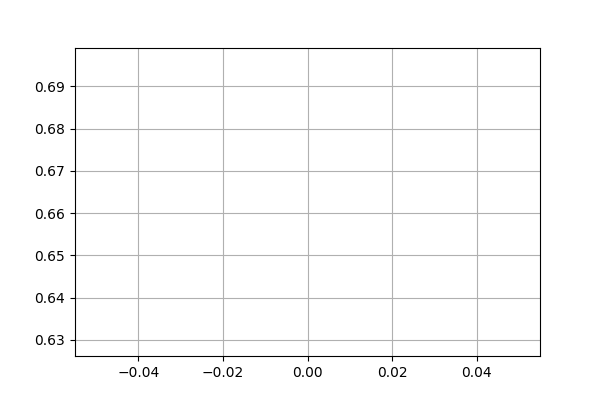
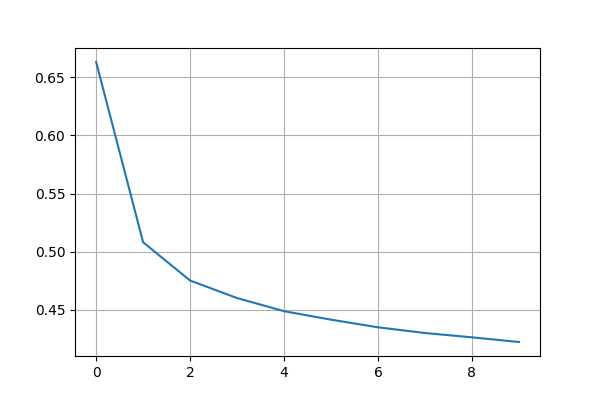
add the concise implementation of softmax.

diff --git a/main.py b/main.py
@@ -136,21 +136,15 @@ def main_manual_linregsm():
     optimizer = SGD([model.w, model.b], lr=args.learning_rate)
     criterion = SetCriterion(args)
     postprocessors = accuracy
-    metrics = defaultdict()
+    metrics = defaultdict(list)
     for epoch in range(args.start_epoch, args.epochs):
         train_stats = train_one_epoch(model, criterion, data_loader_train, optimizer, epoch)
         print(id(data_loader_test))
         test_stats = evaluate(model, criterion, postprocessors, data_loader_test)
         for k, v in train_stats.items():
-            if k in metrics:
-                metrics[k].append(v)
-            else:
-                metrics[k] = [v]
+            metrics[k].append(v)
         for k, v in test_stats.items():
-            if k in metrics:
-                metrics[k].append(v)
-            else:
-                metrics[k] = [v]
+            metrics[k].append(v)
 
     for k, v in metrics.items():
         plot(v)
@@ -166,6 +160,37 @@ def main_manual_linregsm():
     show_images(x[:n].reshape(n, 28, 28), 1, n, titles=titles)
     plt.show()
      
+def main_concise_linregsm():
+    from soft_max.concise_implementation.model import SetCriterion, PostProcess, LinRegSm
+    from soft_max.concise_implementation.engine import train_one_epoch, evaluate
+    
+    args = get_args_parser()
+    dataset_train, dataset_test = get_datasets(args)
+    
+    dataset_loader_train = DataLoader(dataset_train, batch_size=args.batch_size, shuffle=True, num_workers=args.num_workers)
+    dataset_loader_test = DataLoader(dataset_test, batch_size=args.batch_size, shuffle=False, num_workers=args.num_workers)
+    
+    model = LinRegSm(args.num_inputs, args.num_classes)
+    criterion = SetCriterion(args)
+    postprocessor = PostProcess()
+    optimizer = torch.optim.SGD(model.parameters(), lr=args.learning_rate)
+    metrics = defaultdict(list)
+    class_preds = [[0]*args.num_classes]
+    for epoch in range(args.epochs):
+        train_stats = train_one_epoch(model, criterion, dataset_loader_train, optimizer, epoch)
+        test_stats, fashionmnist_evaluator = evaluate(model, criterion, postprocessor, dataset_loader_test, args)
+        for k, v in train_stats.items():
+            metrics[k].append(v)
+        for k, v in test_stats.items():
+            metrics[k].append(v)
+        metrics['classes'].append([x/y for x, y in zip(fashionmnist_evaluator.pred_counts,fashionmnist_evaluator.label_counts)])
+    metrics['classes'] = list(map(list, zip(*metrics['classes'])))
+
+    for k, v in metrics.items():
+        plot(v)
+        save_plot("_".join([model.__class__.__name__, k]))
+        plt.close()
+    
 def get_args_parser():
     parser = argparse.ArgumentParser(
         description='The study of D2L.')
@@ -179,9 +204,9 @@ def get_args_parser():
     parser.add_argument("--learning_rate", default=1e-1, type=float)
     parser.add_argument("--num_workers", default=1, type=int)
     parser.add_argument("--start_epoch", default=0, type=int)
-    parser.add_argument("--epochs", default=1, type=int)
+    parser.add_argument("--epochs", default=10, type=int)
     parser.add_argument("--num_inputs", default=784, type=int)
-    parser.add_argument("--num_outputs", default=10, type=int)
+    parser.add_argument("--num_classes", default=10, type=int)
     args = parser.parse_args()
     return args
 def get_datasets(args):
@@ -194,7 +219,23 @@ def get_datasets(args):
 if __name__ == "__main__":
     # main_manual_linreg()
     # main_concise_linreg()
-    main()
+    # main()
+    main_concise_linregsm()
+    
+    # x = torch.arange(20).reshape(4, 5)
+    # print("x = ", x)
+    # y = torch.arange(1,5).reshape(-1, 1)
+    # print("y = ", y)
+    
+    # print(x, x.shape)
+    # print(y, y.shape)
+    # from soft_max.concise_implementation.model import *
+    # post = PostProcess()
+    # res = post(x,y)
+    # data = FashionMNIST("data", train=False)
+    # print(res)
+    
+    
     
     
     

diff --git a/util/misc.py b/util/misc.py
@@ -115,7 +115,7 @@ class MetricLogger:
     def add_meter(self, name, meter):
         self.meters[name] = meter
         
-    def log_every(self, iterable, print_freq, header=None):
+    def log_every(self, iterable, print_freq, header=None, show_log=True):
         i = 0
         if not header:
             header = ""
@@ -148,23 +148,24 @@ class MetricLogger:
             data_time.update(time.time()-end)
             yield obj
             iter_time.update(time.time()-end)
-            if i % print_freq == 0 or i == len(iterable) - 1:
-                eta_seconds = iter_time.global_avg * (len(iterable) - i)
-                # str(datetime.timedelta(seconds=int(eta_seconds))) is equal to datetime.timedelta(seconds=int(eta_seconds)).__str__()
-                eta_string = str(datetime.timedelta(seconds=int(eta_seconds)))
-                if torch.cuda.is_available():
-                    print(log_msg.format(
-                        i,len(iterable), eta=eta_string,
-                        meters=str(self),
-                        time=str(iter_time),data=str(data_time),
-                        memory=torch.cuda.max_memory_allocated()/MB
-                    ))
-                else:
-                    print(log_msg.format(
-                        i,len(iterable), eta=eta_string,
-                        meters=str(self),
-                        time=str(iter_time),data=str(data_time),
-                    ))
+            if show_log:
+                if i % print_freq == 0 or i == len(iterable) - 1:
+                    eta_seconds = iter_time.global_avg * (len(iterable) - i)
+                    # str(datetime.timedelta(seconds=int(eta_seconds))) is equal to datetime.timedelta(seconds=int(eta_seconds)).__str__()
+                    eta_string = str(datetime.timedelta(seconds=int(eta_seconds)))
+                    if torch.cuda.is_available():
+                        print(log_msg.format(
+                            i,len(iterable), eta=eta_string,
+                            meters=str(self),
+                            time=str(iter_time),data=str(data_time),
+                            memory=torch.cuda.max_memory_allocated()/MB
+                        ))
+                    else:
+                        print(log_msg.format(
+                            i,len(iterable), eta=eta_string,
+                            meters=str(self),
+                            time=str(iter_time),data=str(data_time),
+                        ))
             i += 1
             end = time.time()
         total_time = time.time() - start_time

diff --git a/soft_max/concise_implementation/engine.py b/soft_max/concise_implementation/engine.py
@@ -11,7 +11,7 @@
 import torch
 from util.misc import Accumulator
 import util.misc as util
-from soft_max.manual_implementation.evaluation import accuracy
+from datasets.fashion_mnist_eval import FashionMnistEvaluator
 def train_one_epoch(model:torch.nn.Module, criterion, data_loader, optimizer, epoch):
     if isinstance(model, torch.nn.Module):
         model.train()
@@ -20,35 +20,36 @@ def train_one_epoch(model:torch.nn.Module, criterion, data_loader, optimizer, ep
 
     header = "Epoch: [{}]".format(epoch)
     print_freq = 600
-    metric = Accumulator(3)
-    # for x, y, in data_loader:
-    for x,y in metric_logger.log_every(data_loader, print_freq, header):
+    for x,y in metric_logger.log_every(data_loader, print_freq, header, show_log=False):
         y_hat = model(x)
         loss = criterion(y_hat, y)
         optimizer.zero_grad()
         loss.backward()
-        # grad_norm = 
         optimizer.step()
-        metric.add(float(loss)*len(y), accuracy(y_hat, y), y.size().numel())
         metric_logger.update(loss=loss.item())
-        metric_logger.update(train_accuracy=accuracy(y_hat, y)/y.size().numel())
         
     print("Averaged stats:", metric_logger)
-    # return metric[0]/metric[2], metric[1]/metric[2]
     return {k: meter.global_avg for k, meter in metric_logger.meters.items()}
         
 @torch.no_grad()
-def evaluate(model, criterion, postprocessors, data_loader):
-    print(id(data_loader))
+def evaluate(model, criterion, postprocessors, data_loader, args):
     if isinstance(model, torch.nn.Module):
         model.eval()
     metric_logger = util.MetricLogger()
     header = "Test:"
     print_freq = 100
-    for x, y in metric_logger.log_every(data_loader, print_freq, header):
+    
+    fashionmnist_evaluator = FashionMnistEvaluator(args)
+    for x, y in metric_logger.log_every(data_loader, print_freq, header, show_log=False):
         y_hat = model(x)
-        results = postprocessors(y_hat, y)/y.size().numel()
-        metric_logger.update(test_accuracy=results)
-    return {k: meter.global_avg for k, meter in metric_logger.meters.items()}
+        results = postprocessors(y_hat, y)
+        metric_logger.update(test_accuracy=results['num_correct']/results['num_samples'])
+        fashionmnist_evaluator.update(results)
+    
+        
+    print("Test stats:",metric_logger)
+    stats = {k: meter.global_avg for k, meter in metric_logger.meters.items()}
+    
+    return stats, fashionmnist_evaluator
         
     

diff --git a/soft_max/concise_implementation/model.py b/soft_max/concise_implementation/model.py
@@ -8,15 +8,43 @@
 '''
 import torch
 class LinRegSm(torch.nn.Module):
-    def __init__(self, num_inputs, num_outputs):
+    def __init__(self, num_inputs, num_classes):
         super().__init__()
         self.num_inputs = num_inputs
-        self.num_outputs = num_outputs
+        self.num_classes = num_classes
         self.block = torch.nn.Sequential(
             torch.nn.Flatten(),
-            torch.nn.Linear(self.num_inputs, self.num_outputs),
+            torch.nn.Linear(self.num_inputs, self.num_classes),
         )
     def forward(self, x):
         x = self.block(x)
         return x
+    
+def cross_entropy_loss(logits, labels):
+    results = torch.nn.functional.cross_entropy(logits, labels)
+    return results
+    
+
+class SetCriterion(torch.nn.Module):
+    def __init__(self, args):
+        super().__init__()
+    
+    def forward(self, logits, labels):
+        return cross_entropy_loss(logits, labels)
+    
+class PostProcess(torch.nn.Module):
+        
+    def forward(self, logits:torch.Tensor, labels:torch.Tensor):
+        if logits.ndim > 1 and logits.size(-1) > 1:
+            preds = logits.argmax(dim=-1)
+        else:
+            preds = logits
+            
+        correct_mask = preds == labels
+        return {
+            "preds": preds.detach(),
+            "labels":labels.detach(), 
+            "num_correct": correct_mask.sum(),
+            "num_samples": labels.numel()
+        }
         

diff --git a/datasets/fashion_mnist_eval.py b/datasets/fashion_mnist_eval.py
@@ -1,0 +1,36 @@
+#!/usr/bin/env python
+# -*- encoding: utf-8 -*-
+'''
+@File    :   fashion_mnist_eval.py
+@Time    :   2025/12/31 10:06:37
+@Author  :   sss
+@description   :   apply the evalutation of fashion_mnist dataset.
+'''
+import torch
+class FashionMnistEvaluator:
+    def __init__(self, args):
+        self.num_correct: int = 0
+        self.num_samples: int = 0
+        self.accuracy: int = 0
+        self.num_classes :int = args.num_classes
+        self.pred_counts = [0] * self.num_classes
+        self.label_counts = [0] * self.num_classes
+    def update(self, res:dict):
+        self.num_correct += res.get("num_correct", 0)
+        self.num_samples += res.get("num_samples", 0)
+        if "preds" in res:
+            for p in res["preds"].flatten():
+                self.pred_counts[p.item()] += 1 
+        if "labels" in res:
+            for p in res["labels"].flatten():
+                self.label_counts[p.item()] += 1 
+        
+        
+    def accumulate(self):
+        if self.num_samples > 0:
+            self.accuracy = self.num_correct/self.num_samples
+    
+    def summarize(self, fmt="{:.6f}"):
+        print("The accuracy is ", fmt.format(self.accuracy))
+    
+        

diff --git a/soft_max/manual_implementation/model.py b/soft_max/manual_implementation/model.py
@@ -18,10 +18,10 @@ def softmax(x):
 #     return softmax(torch.matmul(x.reshape((-1, w.shape[0])),w)+b)
 
 class LinRegSm(torch.nn.Module):
-    def __init__(self, num_inputs, num_outputs):
+    def __init__(self, num_inputs, num_classes):
         super().__init__()
-        self.w = torch.normal(0, 0.01, size=(num_inputs, num_outputs), requires_grad=True)
-        self.b = torch.zeros(num_outputs, requires_grad=True)
+        self.w = torch.normal(0, 0.01, size=(num_inputs, num_classes), requires_grad=True)
+        self.b = torch.zeros(num_classes, requires_grad=True)
     
     def parameters(self):
         yield self.w
@@ -34,5 +34,5 @@ class LinRegSm(torch.nn.Module):
 def build_linreg_sm(args):
     return LinRegSm(
         num_inputs = args.num_inputs,
-        num_outputs = args.num_outputs
+        num_classes = args.num_classes
         )

diff --git a/datasets/datasets.py b/datasets/datasets.py
@@ -6,12 +6,6 @@
 @Author  :   sss
 @description   :   xxxxxxxxx
 '''
-import torch
-from torchvision.datasets import FashionMNIST
 
-class FashionMNISTClassification(FashionMNIST):
-    def __init__(self, root, ):
-        super().__init__()
-        self.
         
         
